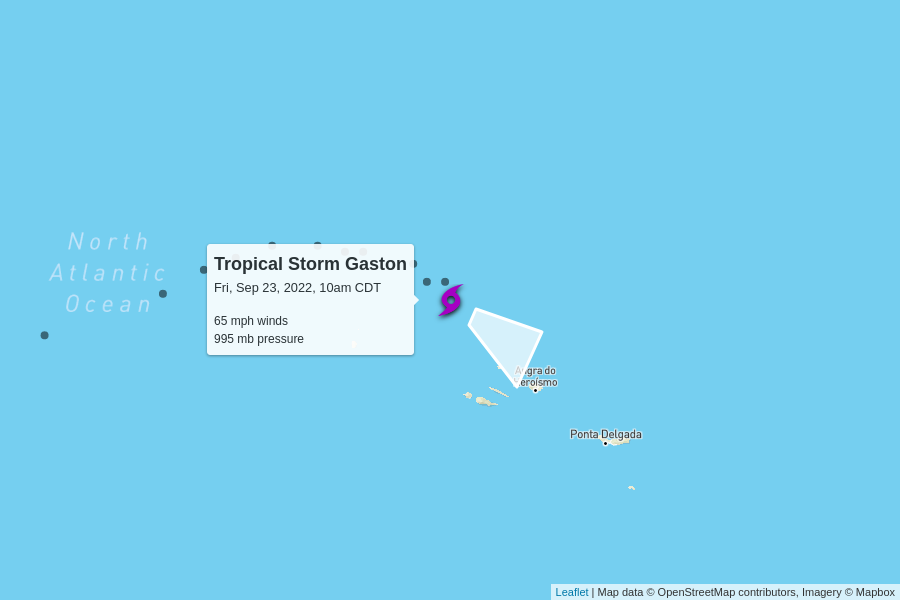
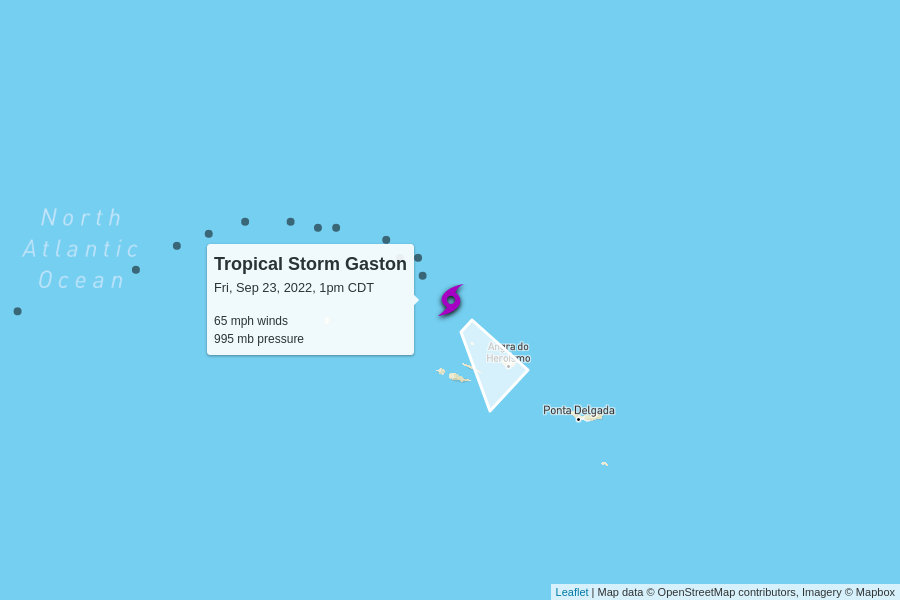
automatic update

diff --git a/docs/index.html b/docs/index.html
@@ -100,7 +100,7 @@
         <td colspan="6" class="storm category-4" >
           <h2>
             Hurricane Fiona - Category 4
-            <p class="updated">last updated <span data-time>2022-09-23T15:00:00.000Z</span></p>
+            <p class="updated">last updated <span data-time>2022-09-23T18:00:00.000Z</span></p>
           </h2>
         </td>
       </tr>
@@ -116,7 +116,7 @@
       <tr>
         <td class="spacer"></td>
         <td>130 mph</td>
-        <td>936 mb</td>
+        <td>940 mb</td>
         <td>
           35 mph to the northeast
           <br/>
@@ -144,7 +144,7 @@
         <td colspan="6" class="storm category-0" >
           <h2>
             Tropical Storm Gaston
-            <p class="updated">last updated <span data-time>2022-09-23T15:00:00.000Z</span></p>
+            <p class="updated">last updated <span data-time>2022-09-23T18:00:00.000Z</span></p>
           </h2>
         </td>
       </tr>
@@ -162,9 +162,9 @@
         <td>65 mph</td>
         <td>995 mb</td>
         <td>
-          7 mph to the east-southeast
+          9 mph to the southeast
           <br/>
-          <span style="display: inline-block; font-size: 1.5em; transform: rotate(120deg);">↑</span>
+          <span style="display: inline-block; font-size: 1.5em; transform: rotate(140deg);">↑</span>
         </td>
         <td><a href="https://raw.githubusercontent.com/mgwalker/atlantic-hurricanes/main/data/csv/AL082022.csv">AL082022.csv</a></td>
         <td><a href="https://www.nhc.noaa.gov/archive/2022/GASTON.shtml?">NHC advisories</a></td>
@@ -174,50 +174,6 @@
         <td colspan="5">
           <figure>
             <img src="AL082022.png">
-            <figcaption>
-              Map data &copy; <a href="https://www.openstreetmap.org/copyright">OpenStreetMap</a> contributors,
-              Imagery &copy; <a href="https://www.mapbox.com/">Mapbox</a> |
-              <a href="https://www.mapbox.com/map-feedback/" target="_blank">Improve this map</a>
-            </figcaption>
-          </figure>
-        </td>
-      </tr>
-      
-
-      <tr>
-        <td colspan="6" class="storm category-0" >
-          <h2>
-            Tropical Depression Ten
-            <p class="updated">last updated <span data-time>2022-09-23T15:00:00.000Z</span></p>
-          </h2>
-        </td>
-      </tr>
-      
-      <tr>
-        <th class="spacer"></th>
-        <th>wind speed</th>
-        <th>central pressure</th>
-        <th>movement</th>
-        <th>data (CSV)</th>
-        <th>National Hurricane Center</th>
-      </tr>
-      <tr>
-        <td class="spacer"></td>
-        <td>35 mph</td>
-        <td>1003 mb</td>
-        <td>
-          12 mph to the north-northwest
-          <br/>
-          <span style="display: inline-block; font-size: 1.5em; transform: rotate(340deg);">↑</span>
-        </td>
-        <td><a href="https://raw.githubusercontent.com/mgwalker/atlantic-hurricanes/main/data/csv/AL102022.csv">AL102022.csv</a></td>
-        <td><a href="https://www.nhc.noaa.gov/archive/2022/TEN.shtml?">NHC advisories</a></td>
-      </tr>
-      <tr id="storm_AL102022" >
-        <td class="spacer">
-        <td colspan="5">
-          <figure>
-            <img src="AL102022.png">
             <figcaption>
               Map data &copy; <a href="https://www.openstreetmap.org/copyright">OpenStreetMap</a> contributors,
               Imagery &copy; <a href="https://www.mapbox.com/">Mapbox</a> |
@@ -262,6 +218,50 @@
         <td colspan="5">
           <figure>
             <img src="AL092022.png">
+            <figcaption>
+              Map data &copy; <a href="https://www.openstreetmap.org/copyright">OpenStreetMap</a> contributors,
+              Imagery &copy; <a href="https://www.mapbox.com/">Mapbox</a> |
+              <a href="https://www.mapbox.com/map-feedback/" target="_blank">Improve this map</a>
+            </figcaption>
+          </figure>
+        </td>
+      </tr>
+      
+
+      <tr>
+        <td colspan="6" class="storm category-0" >
+          <h2>
+            Tropical Depression Ten
+            <p class="updated">last updated <span data-time>2022-09-23T15:00:00.000Z</span></p>
+          </h2>
+        </td>
+      </tr>
+      
+      <tr>
+        <th class="spacer"></th>
+        <th>wind speed</th>
+        <th>central pressure</th>
+        <th>movement</th>
+        <th>data (CSV)</th>
+        <th>National Hurricane Center</th>
+      </tr>
+      <tr>
+        <td class="spacer"></td>
+        <td>35 mph</td>
+        <td>1003 mb</td>
+        <td>
+          12 mph to the north-northwest
+          <br/>
+          <span style="display: inline-block; font-size: 1.5em; transform: rotate(340deg);">↑</span>
+        </td>
+        <td><a href="https://raw.githubusercontent.com/mgwalker/atlantic-hurricanes/main/data/csv/AL102022.csv">AL102022.csv</a></td>
+        <td><a href="https://www.nhc.noaa.gov/archive/2022/TEN.shtml?">NHC advisories</a></td>
+      </tr>
+      <tr id="storm_AL102022" >
+        <td class="spacer">
+        <td colspan="5">
+          <figure>
+            <img src="AL102022.png">
             <figcaption>
               Map data &copy; <a href="https://www.openstreetmap.org/copyright">OpenStreetMap</a> contributors,
               Imagery &copy; <a href="https://www.mapbox.com/">Mapbox</a> |
